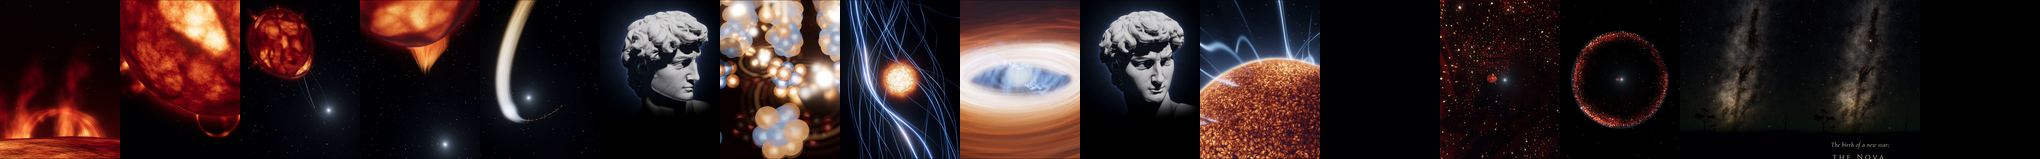
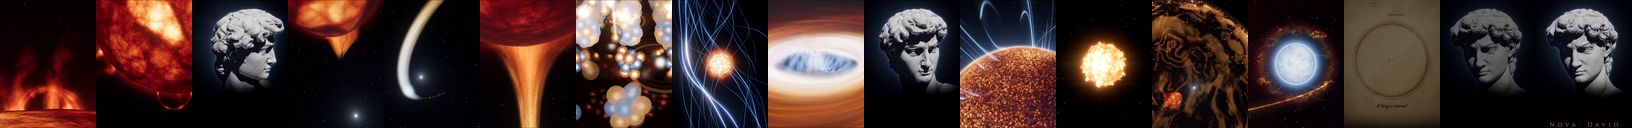
Site: finish-review fixes (plate edges, contrast, type, series, pieces, warm neutrals) and the new star's glint
Claude-Session: https://claude.ai/code/session_016WT5HJoRqv4SsaBdm3L53R

diff --git a/site/nova/assets/nova.css b/site/nova/assets/nova.css
@@ -16,9 +16,9 @@
   --lp-100:#f8ead0;
   --lp-50:#fcf6ea;
   --nv-0:#040405;     /* the page: the film's black */
-  --nv-1:#09090b;
-  --nv-2:#111013;
-  --nv-3:#1a181c;
+  --nv-1:#0a0908;
+  --nv-2:#12100d;
+  --nv-3:#1b1813;
   --nv-text:#f4efe6;
   --nv-text-2:rgba(244,239,230,.82);
   --nv-mute:rgba(244,239,230,.64);
@@ -66,9 +66,15 @@ a{color:inherit}
 
 /* ================= hero ================= */
 .hero{position:relative;margin:12px;border-radius:22px;overflow:hidden;min-height:min(94vh,900px);display:flex;flex-direction:column;isolation:isolate;background:var(--nv-0)}
-.plate,.plate-dark{position:absolute;inset:-2% -1% 0;z-index:-3;background:url(plate-wide.jpg) 62% 100%/cover no-repeat;transform:translate3d(calc(var(--mx,0)*-12px),calc(var(--p,0)*48px + var(--my,0)*-6px),0) scale(calc(1.05 - var(--p,0)*.03));transform-origin:62% 100%;transition:transform .9s var(--out)}
+.plate,.plate-dark{position:absolute;inset:-2% -1% -12%;z-index:-3;background:url(plate-wide.jpg) 62% 100%/cover no-repeat;transform:translate3d(calc(var(--mx,0)*-12px),calc(var(--p,0)*48px + var(--my,0)*-6px),0) scale(calc(1.05 - var(--p,0)*.03));transform-origin:62% 100%;transition:transform .9s var(--out)}
 .plate-dark{z-index:-2;background-image:url(plate-wide-dark.jpg);animation:starborn 1.8s 2.2s cubic-bezier(.4,0,.2,1) forwards}
 @keyframes starborn{to{opacity:0}}
+.glint{position:absolute;left:var(--gx,-99px);top:var(--gy,-99px);width:0;height:0;pointer-events:none;opacity:0;animation:glintin 1.6s 3.1s var(--out) forwards}
+.glint::before{content:"";position:absolute;left:-90px;top:-.75px;width:180px;height:1.5px;background:linear-gradient(90deg,transparent,rgba(var(--lp-300-rgb),.55) 35%,rgba(255,250,240,.95) 50%,rgba(var(--lp-300-rgb),.55) 65%,transparent)}
+.glint::after{content:"";position:absolute;left:-15px;top:-15px;width:30px;height:30px;border-radius:50%;background:radial-gradient(closest-side,rgba(255,250,240,.9),rgba(var(--lp-300-rgb),.35) 45%,transparent);animation:breath 5.2s 4.7s ease-in-out infinite}
+@keyframes glintin{to{opacity:1}}
+.glint.off::after{animation-play-state:paused}
+@keyframes breath{50%{transform:scale(1.18);opacity:.8}}
 .dawn{position:absolute;inset:0;z-index:-1;background:var(--nv-0);animation:dawn 2.4s .15s cubic-bezier(.4,0,.2,1) forwards;pointer-events:none}
 @keyframes dawn{to{opacity:0}}
 .hero::before{content:"";position:absolute;inset:0;z-index:-1;pointer-events:none;background:linear-gradient(90deg,rgba(var(--nv-0-rgb),.66) 0%,rgba(var(--nv-0-rgb),.34) 34%,transparent 58%),linear-gradient(0deg,rgba(var(--nv-0-rgb),.9) 0%,transparent 26%)}
@@ -81,7 +87,7 @@ a{color:inherit}
 .ghost{display:inline-flex;align-items:center;gap:6px;padding:9px 15px;border-radius:999px;border:1px solid var(--nv-border-strong);font-size:13px;font-weight:500;text-decoration:none;transition:background .2s var(--out),border-color .2s var(--out)}
 .ghost:hover{background:rgba(244,239,230,.08);border-color:var(--nv-text)}
 .hero-copy{margin:auto 0;padding:24px clamp(20px,6vw,96px) clamp(64px,9vh,112px);max-width:960px;transform:translate3d(0,calc(var(--p,0)*-90px),0);opacity:calc(1 - var(--p,0)*1.15);translate:calc(var(--mx,0)*6px) calc(var(--my,0)*4px);transition:translate .9s var(--out)}
-.h1{font-size:clamp(46px,7.4vw,112px);font-weight:600;letter-spacing:-.05em;line-height:.94;margin:0;text-wrap:balance}
+.h1{font-size:clamp(46px,7.4vw,96px);font-weight:600;letter-spacing:-.04em;line-height:.94;margin:0;text-wrap:balance}
 .h1>span{display:block}
 .h1>span:first-child{color:var(--lp-300)}
 .sub{max-width:31em;margin:26px 0 0;font-size:clamp(16px,1.3vw,18px);line-height:1.5;color:var(--nv-text-2);animation:fadein 1s .7s var(--out) both}
@@ -103,7 +109,8 @@ a{color:inherit}
 .play{position:absolute;inset:0;display:grid;justify-items:center;align-content:end;padding:0 0 26%;border:0;background:linear-gradient(0deg,rgba(var(--nv-0-rgb),.5),transparent 40%);transition:opacity .3s var(--out)}
 .play i{width:84px;height:84px;border-radius:50%;display:grid;place-items:center;background:linear-gradient(180deg,var(--lp-200),var(--lp-300));color:var(--nv-0);box-shadow:0 0 0 10px rgba(var(--lp-300-rgb),.16),0 20px 40px -14px rgba(0,0,0,.8);transition:transform .25s var(--out),box-shadow .25s var(--out)}
 .play:hover i{transform:scale(1.05);box-shadow:0 0 0 14px rgba(var(--lp-300-rgb),.2),0 20px 40px -14px rgba(0,0,0,.8)}
-.play b{position:absolute;left:0;right:0;bottom:22px;text-align:center;font:500 12px/1 var(--mono);letter-spacing:.14em;color:var(--nv-text-2)}
+.play b{position:absolute;left:0;right:0;bottom:22px;text-align:center;font:500 13px/1 var(--font);color:var(--nv-text-2)}
+.play b em{font:400 12px/1 var(--mono);font-style:normal;color:var(--nv-mute);margin-left:6px}
 .film.started .play{opacity:0;pointer-events:none}
 
 /* ================= stills ================= */
@@ -142,21 +149,23 @@ a{color:inherit}
 .beats{list-style:none;margin:0;padding:0 0 12vh}
 .beat{min-height:min(48vh,440px);display:flex;flex-direction:column;justify-content:center;padding:4vh 0}
 .beat p{margin:0;font-size:clamp(18px,1.55vw,22px);line-height:1.55;color:var(--nv-text);max-width:30em;transition:color .6s var(--out)}
-.js .beat p{color:var(--nv-faint)}
+.js .beat p{color:var(--nv-mute)}
 .js .beat.on p{color:var(--nv-text)}
 .beat-fig{display:none;margin:0 0 20px}
 .beat-fig img{width:100%;max-width:420px;border-radius:14px;box-shadow:0 0 0 1px var(--nv-rule)}
 
 /* ================= plate band ================= */
-.band{position:relative;margin:clamp(72px,10vw,128px) var(--gut) 0;border-radius:22px;overflow:hidden;text-align:center;padding:clamp(56px,8vw,96px) 16px 0;min-height:clamp(520px,62vw,700px);background:url(plate-wide.jpg) 70% calc(100% + 80px - var(--bp,0)*80px)/cover var(--nv-0);isolation:isolate}
+.band{position:relative;margin:clamp(72px,10vw,128px) var(--gut) 0;border-radius:22px;overflow:hidden;text-align:center;padding:clamp(56px,8vw,96px) 16px 0;min-height:clamp(520px,62vw,700px);background:var(--nv-0);isolation:isolate}
 .band::before,.foot::before{content:"";position:absolute;inset:0;z-index:-1;pointer-events:none;background:linear-gradient(180deg,rgba(var(--nv-0-rgb),.78) 0%,rgba(var(--nv-0-rgb),.36) 40%,transparent 66%)}
+.band::after,.foot::after{content:"";position:absolute;inset:-80px 0 -10%;z-index:-2;background:url(plate-wide.jpg) 70% 100%/cover no-repeat;transform:translate3d(0,calc(80px - var(--bp,0)*80px),0);pointer-events:none}
 .band p{margin:14px auto 28px;max-width:28em;font-size:17px;color:var(--nv-text-2)}
 
 /* ================= series ================= */
-.series{display:grid;grid-template-columns:minmax(0,1fr) minmax(0,1fr);gap:clamp(32px,6vw,96px);margin-top:clamp(28px,4vw,48px);align-items:end}
+.series{margin-top:clamp(28px,4vw,48px)}
+.series>div{max-width:34em}
 .series p{margin:0 0 1.1em;font-size:17px;line-height:1.65;color:var(--nv-text-2);max-width:34em}
 .series p:last-child{margin-bottom:0}
-.statement{font-size:clamp(30px,4vw,54px)!important;font-weight:600;letter-spacing:-.04em;line-height:1.02!important;color:var(--lp-300)!important;margin:0!important}
+.series .statement{font-size:clamp(40px,6vw,88px);font-weight:600;letter-spacing:-.045em;line-height:1;color:var(--lp-300);margin:clamp(48px,6vw,88px) 0 0;max-width:none}
 
 /* ================= made in code ================= */
 .cards{display:grid;grid-template-columns:1fr 1fr;gap:16px;margin-top:clamp(28px,4vw,48px)}
@@ -166,8 +175,8 @@ a{color:inherit}
 .card h3{font-size:20px;font-weight:600;letter-spacing:-.03em;margin:18px 14px 6px}
 .card p{font-size:14.5px;line-height:1.55;color:var(--nv-mute);margin:0 14px 14px;max-width:34em}
 /* pieces: 17 blocks render out of order, then the count lands */
-.tiles{display:grid;grid-template-columns:repeat(9,30px);gap:5px}
-.tile{width:30px;height:40px;border-radius:4px;background:url(pieces.jpg) 0 0/calc(30px*17) 40px;box-shadow:0 0 0 1px var(--nv-rule)}
+.tiles{display:grid;grid-template-columns:repeat(9,48px);gap:6px}
+.tile{width:48px;height:64px;border-radius:5px;background:url(pieces.jpg) 0 0/calc(48px*17) 64px;box-shadow:0 0 0 1px var(--nv-rule)}
 .js .tile{opacity:.08;transform:scale(.86);transition:opacity .5s var(--out),transform .6s var(--out),box-shadow .6s var(--out)}
 .js .tile.on{opacity:1;transform:none}
 .tile.hot{box-shadow:0 0 0 1px var(--lp-300),0 0 18px -2px rgba(var(--lp-300-rgb),.6)}
@@ -200,19 +209,18 @@ a{color:inherit}
 /* ================= credits ================= */
 .credits{margin:clamp(28px,4vw,48px) 0 0;display:grid;grid-template-columns:minmax(150px,220px) minmax(0,1fr);border-top:1px solid var(--nv-rule)}
 .credits dt,.credits dd{margin:0;padding:18px 0;border-bottom:1px solid var(--nv-rule)}
-.credits dt{font:500 11px/1.9 var(--mono);letter-spacing:.16em;text-transform:uppercase;color:var(--nv-mute)}
+.credits dt{font:500 14px/1.6 var(--font);color:var(--nv-mute)}
 .credits dd{font-size:15px;line-height:1.6;color:var(--nv-text-2)}
 .credits dd b{font-weight:500;color:var(--nv-text)}
 
 /* ================= footer ================= */
-.foot{position:relative;margin:clamp(72px,10vw,128px) 12px 12px;border-radius:22px;overflow:hidden;padding:48px clamp(20px,5vw,56px) 240px;background:url(plate-wide.jpg) 70% calc(100% + 80px - var(--bp,0)*80px)/cover var(--nv-0);display:grid;grid-template-columns:1.6fr 1fr 1fr;gap:28px;font-size:14px;isolation:isolate}
+.foot{position:relative;margin:clamp(72px,10vw,128px) 12px 12px;border-radius:22px;overflow:hidden;padding:48px clamp(20px,5vw,56px) 240px;background:var(--nv-0);display:grid;grid-template-columns:1.6fr 1fr 1fr;gap:28px;font-size:14px;isolation:isolate}
 .foot .sigmark{width:200px;height:auto;color:var(--nv-text)}
 .foot b{display:block;font-size:15px;font-weight:600;margin-bottom:10px}
 .foot a{display:block;text-decoration:none;color:var(--nv-text-2);padding:4px 0;transition:color .2s var(--out)}
 .foot a:hover{color:var(--nv-text);text-decoration:underline;text-underline-offset:3px}
 
 /* ============ motion layer ============ */
-.prog{position:fixed;top:0;left:0;right:0;height:2px;z-index:60;background:linear-gradient(90deg,var(--lp-600),var(--lp-300));transform-origin:0 50%;transform:scaleX(var(--sp,0));pointer-events:none}
 /* word masks: every headline rises word by word */
 .wm{display:inline-block;overflow:hidden;vertical-align:top;padding-bottom:.08em;margin-bottom:-.08em}
 .js .wi{display:inline-block;transform:translateY(108%) rotate(4deg);transform-origin:0 100%;transition:transform 1s var(--out);transition-delay:calc(var(--i)*55ms + var(--d,0ms))}
@@ -229,7 +237,7 @@ a{color:inherit}
 }
 @media (max-width:860px){
   .links{display:none}
-  .cards,.series{grid-template-columns:1fr}
+  .cards{grid-template-columns:1fr}
   .story{grid-template-columns:1fr}
   .stage{display:none}
   .beat{min-height:0;padding:0 0 44px}
@@ -246,8 +254,9 @@ a{color:inherit}
 }
 @media (max-width:640px){
   .stills{grid-template-columns:repeat(2,1fr)}
-  .tiles{grid-template-columns:repeat(6,30px)}
-  .scene{height:280px}
+  .tiles{grid-template-columns:repeat(6,40px);gap:5px}
+  .tile{width:40px;height:53px;background-size:calc(40px*17) 53px}
+  .scene{height:300px}
 }
 @media (max-aspect-ratio:4/5){
   .plate{background-image:url(plate-tall.jpg);background-position:50% 100%;transform-origin:50% 100%}
@@ -266,6 +275,7 @@ a{color:inherit}
   .js [data-r]{transform:none;filter:none;transition:opacity .3s}
   .plate,.plate-dark,.hero-copy{transform:none!important;translate:none!important}
   .dawn,.plate-dark{display:none}
+  .glint{opacity:1}
   .js .wi{transform:none}
   .js .draw svg{stroke-dashoffset:0}
   .js .tile{opacity:1;transform:none}

diff --git a/site/nova/index.html b/site/nova/index.html
@@ -52,11 +52,10 @@
  </defs>
 </svg>
 <a class="skip" href="#film">Skip to the film</a>
-<div class="prog" id="prog" aria-hidden="true"></div>
 
 <!-- ds:component landing-hero skin=landing -->
 <header class="hero" id="top">
- <div class="plate" aria-hidden="true"></div><div class="plate-dark" aria-hidden="true"></div><div class="dawn" aria-hidden="true"></div>
+ <div class="plate" aria-hidden="true"><i class="glint" id="glint"></i></div><div class="plate-dark" aria-hidden="true"></div><div class="dawn" aria-hidden="true"></div>
  <nav class="nav" aria-label="Main">
   <a class="logo" href="#top"><svg width="20" height="20"><use href="#i-star"/></svg>Nova</a>
   <div class="links"><a href="#film">Film</a><a href="#stills">Stills</a><a href="#story">Story</a><a href="#series">Series</a></div>
@@ -64,7 +63,7 @@
  </nav>
  <div class="hero-copy">
   <h1 class="h1" id="h1" data-split><span>Nova. Episode 1.</span><span>David &amp; Goliath.</span></h1>
-  <p class="sub">A white dwarf the size of Earth steals from a red giant until the stolen fuel ignites. 2 min 48 s, every frame rendered in code.</p>
+  <p class="sub">A white dwarf the size of Earth steals from a red giant until the stolen fuel ignites. 2&nbsp;min&nbsp;48&nbsp;s, every frame rendered in code.</p>
   <div class="ctas">
    <a class="btn fill" href="#film" data-watch><svg class="play-i" width="16" height="16"><use href="#i-play"/></svg>Watch the film</a>
    <a class="btn line" href="#story">Read the story <svg width="14" height="14"><use href="#i-arrow"/></svg></a>
@@ -94,7 +93,7 @@
    <source src="assets/nova-ep1-david-goliath.mp4" type="video/mp4">
    <a href="assets/nova-ep1-david-goliath.mp4">Download the film (MP4)</a>
   </video>
-  <button class="play" id="play" type="button" aria-label="Play Nova, Episode 1, 2 minutes 48 seconds, with sound"><i><svg width="30" height="30"><use href="#i-play"/></svg></i><b>SOUND ON · 2:48</b></button>
+  <button class="play" id="play" type="button" aria-label="Play Nova, Episode 1, 2 minutes 48 seconds, with sound"><i><svg width="30" height="30"><use href="#i-play"/></svg></i><b>Sound on<em>2:48</em></b></button>
  </div>
 </section>
 
@@ -141,7 +140,7 @@
 <!-- ds:component landing-plate-band skin=landing -->
 <section class="band" id="band" aria-labelledby="band-h">
  <h2 class="h2" id="band-h" data-split>A star where there was none.</h2>
- <p>Episode 1 of Nova. 2 min 48 s, vertical.</p>
+ <p>Episode 1 of Nova. 2&nbsp;min&nbsp;48&nbsp;s, vertical.</p>
  <a class="btn fill" href="#film" data-watch><svg class="play-i" width="16" height="16"><use href="#i-play"/></svg>Watch the film</a>
 </section>
 <!-- /ds:component landing-plate-band -->

diff --git a/site/nova/assets/nova.js b/site/nova/assets/nova.js
@@ -98,14 +98,22 @@ var so=new IntersectionObserver(function(es){es.forEach(function(e){var s=STORY[
  else{clear('k'+e.target.dataset.story);s.reset();e.target.classList.remove('live')}})},{threshold:.45});
 $$('[data-story]').forEach(function(c){so.observe(c)});
 
+/* the new star's glint sits on the star wherever background-size:cover puts it (wide or tall plate) */
+var glint=$('#glint'),plate=glint&&glint.parentElement;
+var PLATES={wide:{w:2400,h:1350,px:.62,py:1,sx:.60,sy:.24},tall:{w:1080,h:1920,px:.5,py:1,sx:.30,sy:.73}};
+function placeGlint(){if(!glint)return;var P=matchMedia('(max-aspect-ratio: 4/5)').matches?PLATES.tall:PLATES.wide,W=plate.offsetWidth,H=plate.offsetHeight,k=Math.max(W/P.w,H/P.h);
+ glint.style.setProperty('--gx',((W-P.w*k)*P.px+P.sx*P.w*k).toFixed(1)+'px');glint.style.setProperty('--gy',((H-P.h*k)*P.py+P.sy*P.h*k).toFixed(1)+'px')}
+placeGlint();addEventListener('resize',placeGlint);
+if(glint)new IntersectionObserver(function(es){es.forEach(function(e){glint.classList.toggle('off',!e.isIntersecting)})}).observe(plate);
+
 /* pointer depth in the hero */
 var hero=$('#top');
 if(hero&&!RM&&matchMedia('(pointer:fine)').matches){hero.addEventListener('pointermove',function(e){var b=hero.getBoundingClientRect();hero.style.setProperty('--mx',((e.clientX-b.left)/b.width-.5).toFixed(3));hero.style.setProperty('--my',((e.clientY-b.top)/b.height-.5).toFixed(3))});hero.addEventListener('pointerleave',function(){hero.style.setProperty('--mx',0);hero.style.setProperty('--my',0)})}
 
-/* scroll-linked: progress bar, hero parallax, band and footer plates climb as they arrive */
-var band=$('#band'),foot=$('#foot'),prog=$('#prog'),pending=false;
+/* scroll-linked: hero parallax, band and footer plates climb as they arrive */
+var band=$('#band'),foot=$('#foot'),pending=false;
 function arrive(el){var r=el.getBoundingClientRect();return Math.max(0,Math.min(1,(innerHeight-r.top)/(innerHeight*.9)))}
-function tick(){pending=false;var max=root.scrollHeight-innerHeight;if(prog)prog.style.setProperty('--sp',max>0?(scrollY/max).toFixed(4):0);if(RM)return;
+function tick(){pending=false;if(RM)return;
  if(hero){var rc=hero.getBoundingClientRect();hero.style.setProperty('--p',Math.max(0,Math.min(1,-rc.top/rc.height)).toFixed(3))}
  if(band)band.style.setProperty('--bp',arrive(band).toFixed(3));if(foot)foot.style.setProperty('--bp',arrive(foot).toFixed(3))}
 addEventListener('scroll',function(){if(!pending){pending=true;requestAnimationFrame(tick)}},{passive:true});addEventListener('resize',tick);tick();

diff --git a/tools/site-assets.py b/tools/site-assets.py
@@ -83,14 +83,19 @@ for i, f in enumerate(TURN_FRAMES):
     data['turn'].append({'f': f, 'tc': tc(f), 'deg': round(angles[i])})
 save(sprite, OUT / 'turn.jpg', 80)
 
-# the pieces: the film rendered as 17 blocks of 240 frames; one thumbnail per block
+# the pieces: the film rendered as 17 blocks of 240 frames; one thumbnail per block (its middle frame, or the
+# nearest frame that is not near-black: the ignition and the sign-off are dark), at 2x the 48x64 tile drawn
 blocks = list(range(0, plan['frames'], 240))
-TW, TH = 120, 159
+TW, TH = 96, 128
+def lum(f):
+    g = active(f).convert('L').resize((27, 36)); return sum(g.getdata()) / (27 * 36)
 pieces = Image.new('RGB', (TW * len(blocks), TH))
 for i, b in enumerate(blocks):
-    mid = min(b + 120, plan['frames'] - 1)
-    pieces.paste(active(mid).resize((TW, TH), Image.LANCZOS), (i * TW, 0))
-save(pieces, OUT / 'pieces.jpg', 78)
+    e = min(b + 240, plan['frames']); mid = (b + e) // 2
+    order = sorted(range(b + 4, e - 4, 12), key=lambda f: abs(f - mid))
+    pick = next((f for f in order if lum(f) > 20), mid)
+    pieces.paste(active(pick).resize((TW, TH), Image.LANCZOS), (i * TW, 0))
+save(pieces, OUT / 'pieces.jpg', 80)
 data['pieces'] = len(blocks)
 
 # plates: wide for landscape viewports, tall for portrait, each with and without the new star
